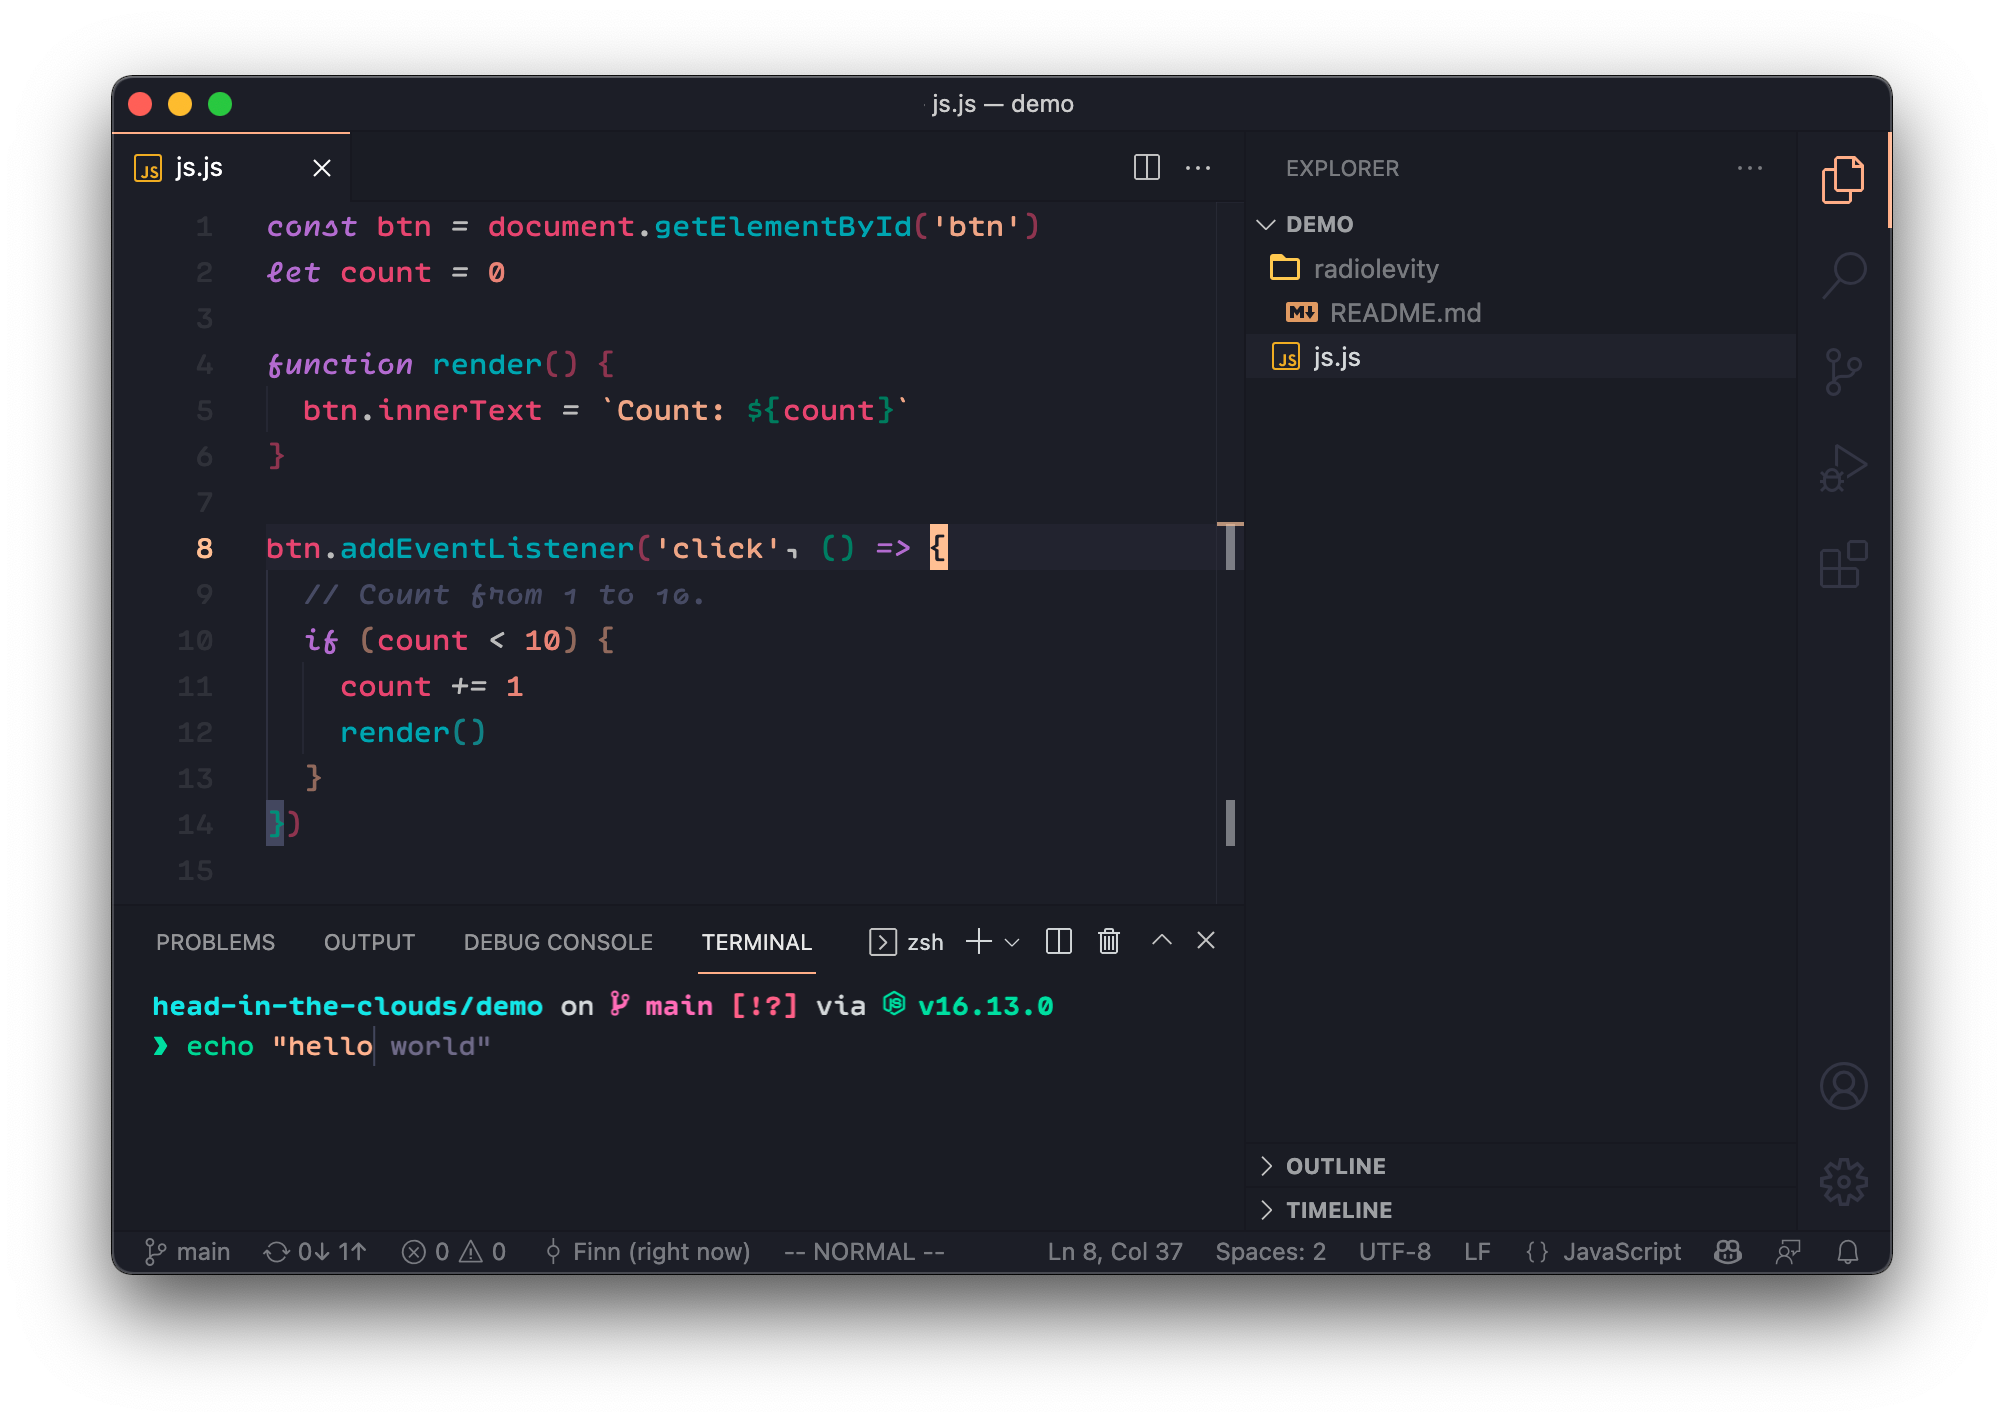
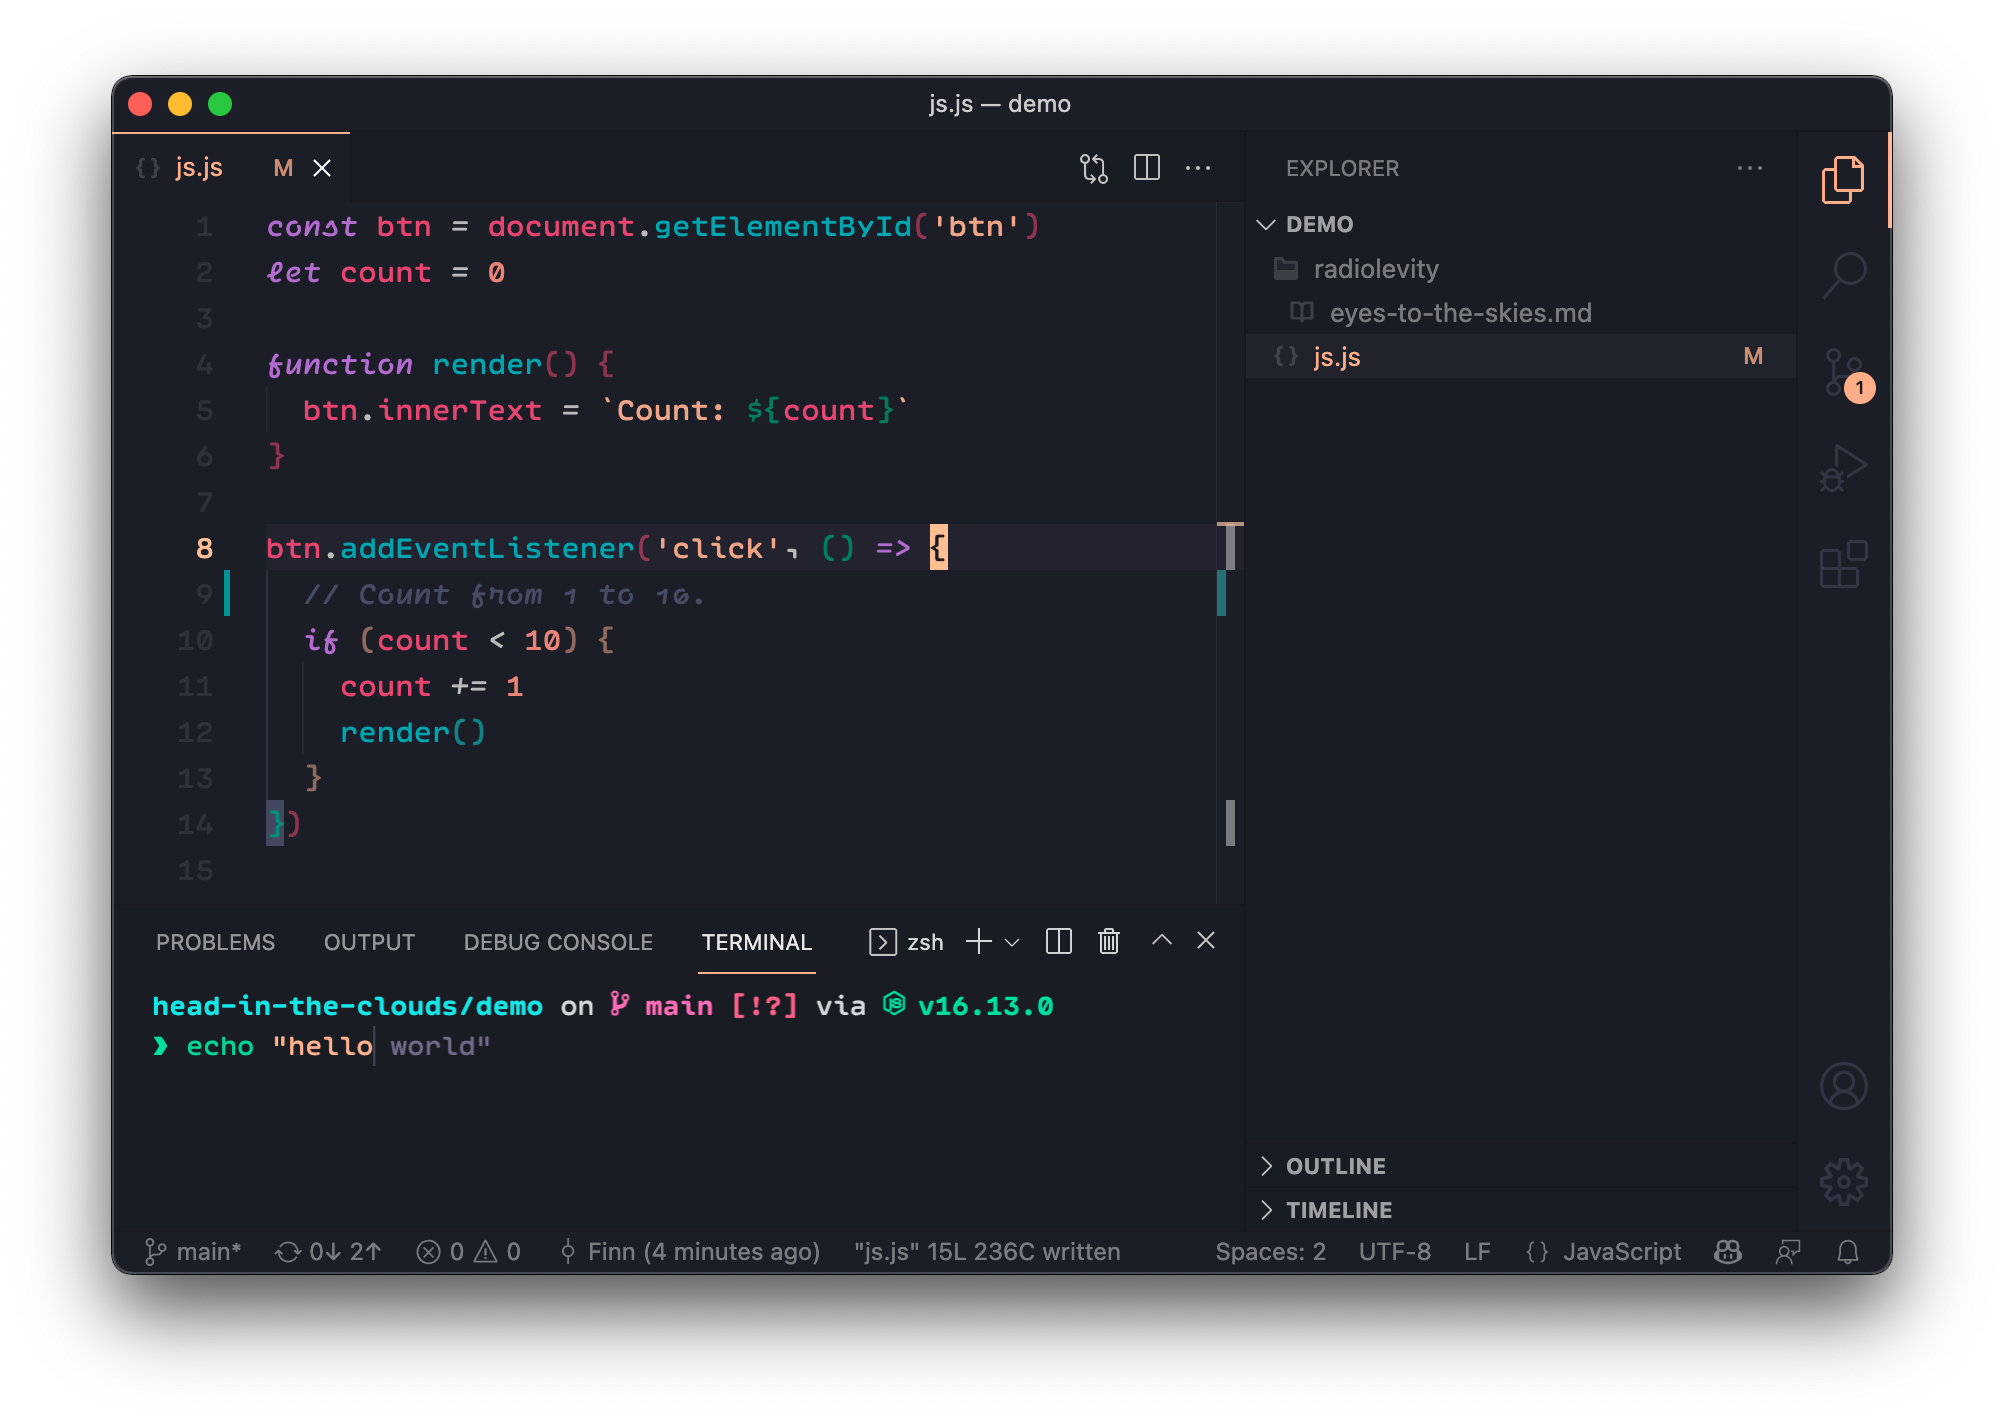
💅

diff --git a/demo/js.js b/demo/js.js
@@ -6,7 +6,7 @@ function render() {
 }
 
 btn.addEventListener('click', () => {
-  // Count from 1 to 10.
+  // Count from 1 to 10. 
   if (count < 10) {
     count += 1
     render()

diff --git a/README.md b/README.md
@@ -1,4 +1,6 @@
-# Head in the Clouds ⛅
+![](header.png)
+
+# Head in the Clouds!
 
 ![](showcase.png)
 

diff --git a/CHANGELOG.md b/CHANGELOG.md
@@ -1,3 +1,4 @@
 # Change Log
 
+* 0.1.0 - Lots of polish
 * 0.0.1 - Initial Release
